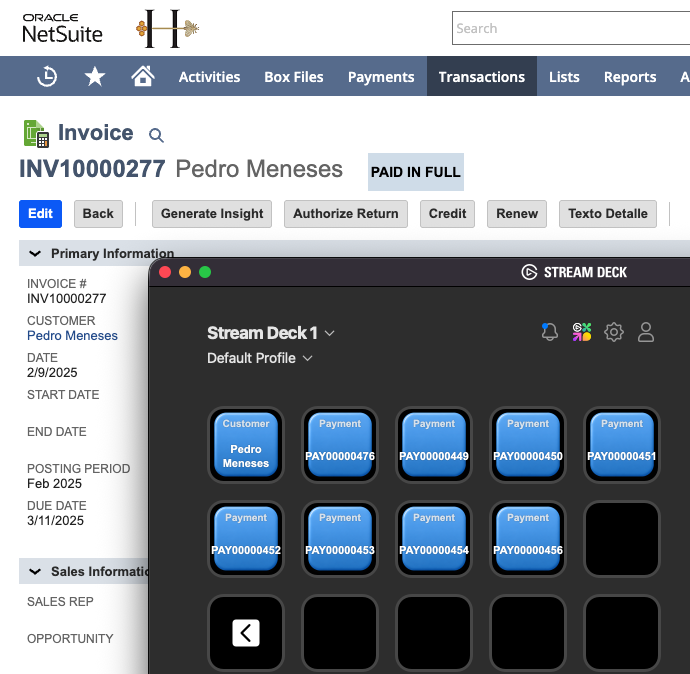
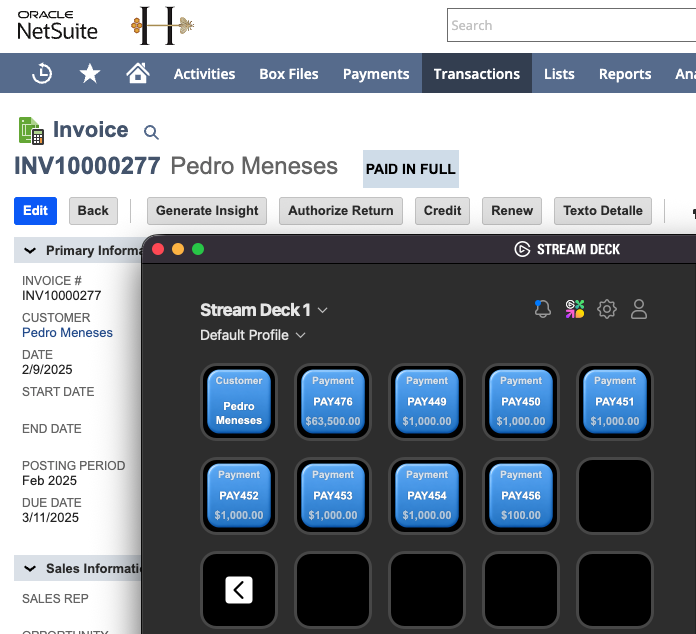
Strip leading zeros from record numbers, show amounts on keys

diff --git a/extension/content.js b/extension/content.js
@@ -32,7 +32,7 @@ function loadImg(url) {
 
 loadImg(chrome.runtime.getURL('btn-jump.png')).then(img => { imgJump = img; });
 
-function generateImage(fieldLabel, recordName) {
+function generateImage(fieldLabel, recordName, amount) {
   const SIZE = 144;
   const MAX_LINES = 2;
   const canvas = document.createElement('canvas');
@@ -60,6 +60,10 @@ function generateImage(fieldLabel, recordName) {
     ctx.fillText(truncate(ctx, fieldLabel, 136), SIZE / 2, 30);
   }
 
+  const hasAmount = amount && amount.length > 0;
+  const zoneTop = fieldLabel ? 48 : 0;
+  const zoneBot = hasAmount ? SIZE - 46 : SIZE;
+
   let fontSize = 22;
   let lines;
   do {
@@ -78,10 +82,14 @@ function generateImage(fieldLabel, recordName) {
   ctx.font = `bold ${fontSize}px Arial, Helvetica, sans-serif`;
   const lineH = fontSize + 6;
   const blockH = lines.length * lineH;
-  const zoneTop = fieldLabel ? 48 : 0;
-  const zoneBot = SIZE;
   const nameTop = zoneTop + (zoneBot - zoneTop - blockH) / 2;
   lines.forEach((line, i) => ctx.fillText(line, SIZE / 2, nameTop + i * lineH + lineH / 2));
+
+  if (hasAmount) {
+    ctx.fillStyle = 'rgba(255,255,255,0.65)';
+    ctx.font = `bold ${fontSize}px Arial, Helvetica, sans-serif`;
+    ctx.fillText(truncate(ctx, amount, 136), SIZE / 2, SIZE - 32);
+  }
 
   return canvas.toDataURL('image/png');
 }
@@ -162,11 +170,17 @@ function scrapeLinks() {
     let recordName = '';
     let fieldLabel = '';
 
+    let amount = '';
+
     if (row?.id?.startsWith('linksrow')) {
       const type = cells[1]?.textContent.trim() ?? '';
-      const number = cells[2]?.textContent.trim() ?? '';
+      const number = (cells[2]?.textContent.trim() ?? '').replace(/(\D+)0+(\d+)$/, '$1$2');
       recordName = number || a.textContent.trim();
       fieldLabel = type;
+      for (let c = cells.length - 1; c >= 3; c--) {
+        const t = cells[c]?.textContent.trim() ?? '';
+        if (/^[\d,]+\.\d{2}$/.test(t) && t !== '0.00') { amount = '$' + t; break; }
+      }
     } else {
       recordName = a.textContent.trim();
       const wrapper = a.closest('.uir-field-wrapper');
@@ -181,7 +195,7 @@ function scrapeLinks() {
     results.push({
       label: fieldLabel ? `${fieldLabel}: ${recordName}` : recordName,
       url: href,
-      image: generateImage(fieldLabel, recordName),
+      image: generateImage(fieldLabel, recordName, amount),
     });
   });
 
